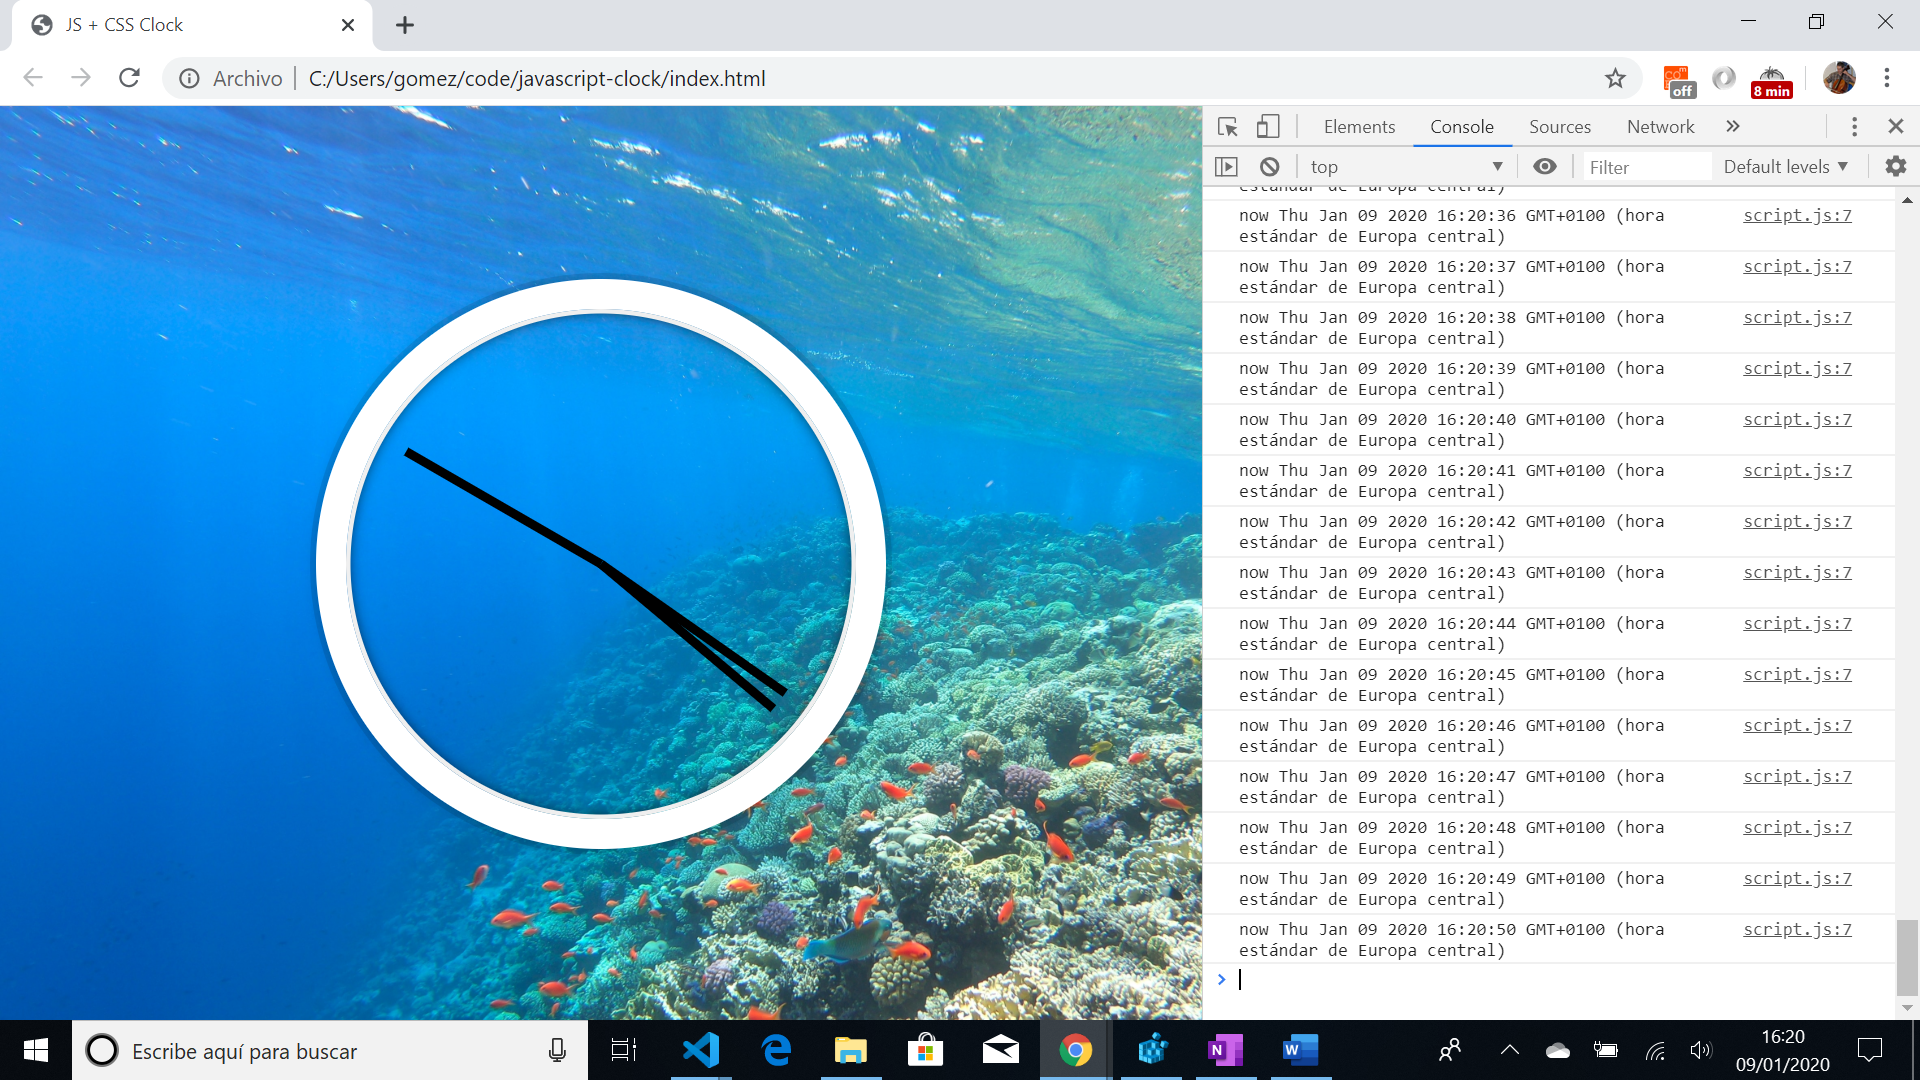
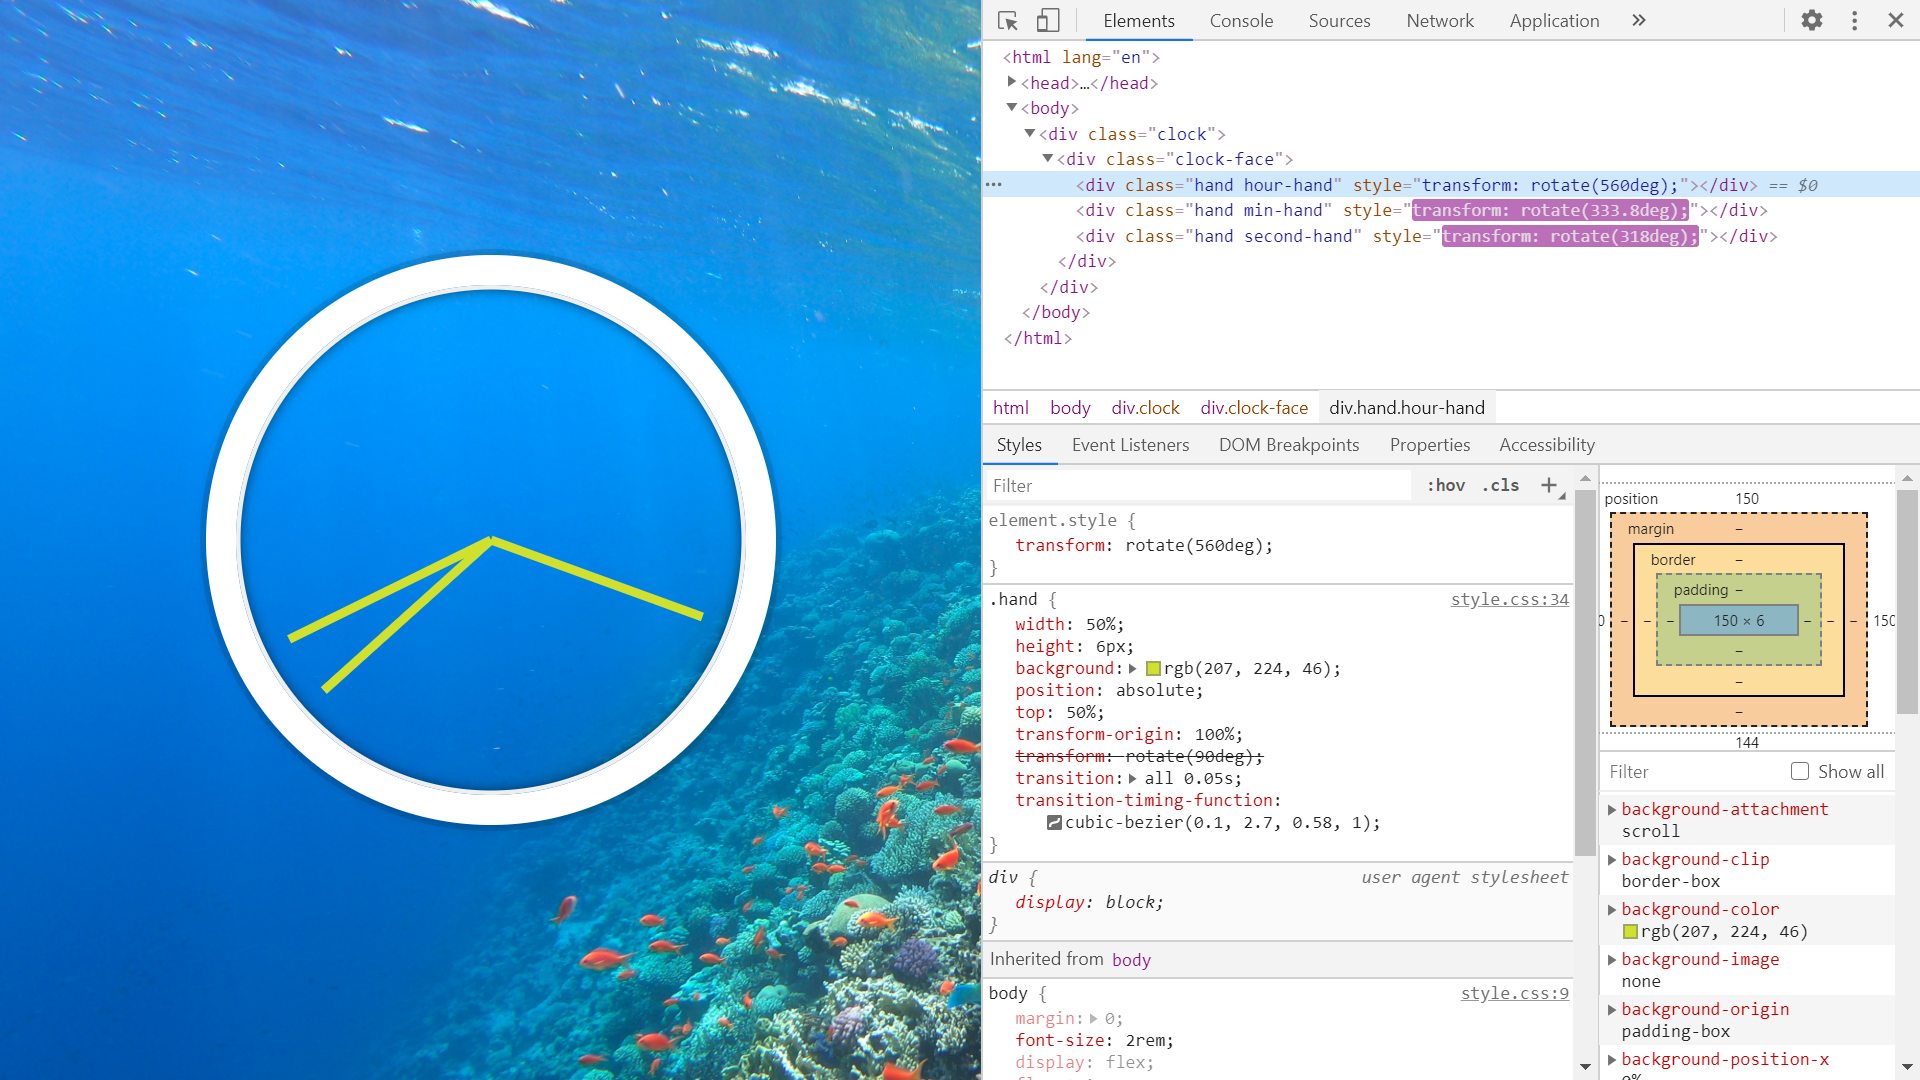
readme updated, minor code formatting, styling change

diff --git a/style.css b/style.css
@@ -1,47 +1,44 @@
 html {
-  /* background: #018DED url(https://images.freeimages.com/images/large-previews/5eb/more-photo-file-2-1169682.jpg); */
-  background: #018DED url(./background.jpg);
-  background-size: cover;
-  font-family: 'helvetica neue';
-  text-align: center;
-  font-size: 10px;
+	/* background: #018DED url(https://images.freeimages.com/images/large-previews/5eb/more-photo-file-2-1169682.jpg); */
+	background: #018ded url(./background.jpg);
+	background-size: cover;
+	font-family: 'helvetica neue';
+	text-align: center;
+	font-size: 10px;
 }
 body {
-  margin: 0;
-  font-size: 2rem;
-  display: flex;
-  flex: 1;
-  min-height: 100vh;
-  align-items: center;
+	margin: 0;
+	font-size: 2rem;
+	display: flex;
+	flex: 1;
+	min-height: 100vh;
+	align-items: center;
 }
 .clock {
-  width: 30rem;
-  height: 30rem;
-  border: 20px solid white;
-  border-radius: 50%;
-  margin: 50px auto;
-  position: relative;
-  padding: 2rem;
-  box-shadow:
-    0 0 0 4px rgba(0,0,0,0.1),
-    inset 0 0 0 3px #EFEFEF,
-    inset 0 0 10px black,
-    0 0 10px rgba(0,0,0,0.2);
+	width: 30rem;
+	height: 30rem;
+	border: 20px solid white;
+	border-radius: 50%;
+	margin: 50px auto;
+	position: relative;
+	padding: 2rem;
+	box-shadow: 0 0 0 4px rgba(0, 0, 0, 0.1), inset 0 0 0 3px #efefef,
+		inset 0 0 10px black, 0 0 10px rgba(0, 0, 0, 0.2);
 }
 .clock-face {
-  position: relative;
-  width: 100%;
-  height: 100%;
-  transform: translateY(-3px); /* account for the height of the clock hands */
+	position: relative;
+	width: 100%;
+	height: 100%;
+	transform: translateY(-3px); /* account for the height of the clock hands */
 }
 .hand {
-  width: 50%;
-  height: 6px;
-  background: rgb(33, 247, 5);
-  position: absolute;
-  top: 50%;
-  transform-origin: 100%;
-  transform: rotate(90deg);
-  transition: all 0.05s;
-  transition-timing-function: cubic-bezier(0.1, 2.7, 0.58, 1);
+	width: 50%;
+	height: 6px;
+	background: rgb(207, 224, 46);
+	position: absolute;
+	top: 50%;
+	transform-origin: 100%;
+	transform: rotate(90deg);
+	transition: all 0.05s;
+	transition-timing-function: cubic-bezier(0.1, 2.7, 0.58, 1);
 }

diff --git a/script.js b/script.js
@@ -3,20 +3,20 @@ const minsHand = document.querySelector('.min-hand');
 const hourHand = document.querySelector('.hour-hand');
 
 function setDate() {
-  const now = new Date();
-  // console.log('now', now);
-  
-  const seconds = now.getSeconds();
-  const secondsDegrees = ((seconds / 60) * 360) + 90;
-  secondHand.style.transform = `rotate(${secondsDegrees}deg)`;
-  
-  const mins = now.getMinutes();
-  const minsDegrees = ((mins / 60) * 360) + ((seconds/60)*6) + 90;
-  minsHand.style.transform = `rotate(${minsDegrees}deg)`;
-  
-  const hours = now.getHours();
-  const hoursDegrees = ((hours / 12) * 360) + ((mins/60)*30) + 90;
-  hourHand.style.transform = `rotate(${hoursDegrees}deg)`;
+	const now = new Date();
+	// console.log('now', now);
+
+	const seconds = now.getSeconds();
+	const secondsDegrees = (seconds / 60) * 360 + 90;
+	secondHand.style.transform = `rotate(${secondsDegrees}deg)`;
+
+	const mins = now.getMinutes();
+	const minsDegrees = (mins / 60) * 360 + (seconds / 60) * 6 + 90;
+	minsHand.style.transform = `rotate(${minsDegrees}deg)`;
+
+	const hours = now.getHours();
+	const hoursDegrees = (hours / 12) * 360 + (mins / 60) * 30 + 90;
+	hourHand.style.transform = `rotate(${hoursDegrees}deg)`;
 }
 //call every second:
 setInterval(setDate, 1000);

diff --git a/index.html b/index.html
@@ -6,7 +6,7 @@
     <meta name="viewport" content="width=device-width, initial-scale=1">
     <link rel="stylesheet" href="style.css">
     <script src="script.js" defer></script>
-  </head> 
+  </head>
   <body>
     <div class="clock">
       <div class="clock-face">
@@ -15,8 +15,5 @@
         <div class="hand second-hand"></div>
       </div>
     </div>
-
-    <div class="glitchButton" style="position:fixed;top:20px;right:20px;"></div>
-    <script src="https://button.glitch.me/button.js"></script>
   </body>
 </html>

diff --git a/README.md b/README.md
@@ -1,37 +1,40 @@
-# Javascript Clock
+# :zap: Javascript Clock
 
 Wes Bos Youtube Tutorial: [We build a CSS + JS Clock in Vanilla JS — #JavaScript30 2/30](https://www.youtube.com/watch?v=xu87YWbr4X0&list=PLu8EoSxDXHP6CGK4YVJhL_VWetA865GOH&index=2).
 
 *** Note: to open web links in a new window use: _ctrl+click on link_**
 
-## Table of contents
+## :page_facing_up: Table of contents
 
-* [General info](#general-info)
-* [Screenshots](#screenshots)
-* [Technologies](#technologies)
-* [Setup](#setup)
-* [Features](#features)
-* [Status](#status)
-* [Inspiration](#inspiration)
-* [Contact](#contact)
+* [:zap: Javascript Clock](#zap-javascript-clock)
+  * [:page_facing_up: Table of contents](#page_facing_up-table-of-contents)
+  * [:books: General info](#books-general-info)
+  * [:camera: Screenshots](#camera-screenshots)
+  * [:signal_strength: Technologies](#signal_strength-technologies)
+  * [:floppy_disk: Setup](#floppy_disk-setup)
+  * [:computer: Code Examples](#computer-code-examples)
+  * [:cool: Features](#cool-features)
+  * [:clipboard: Status & To-Do List](#clipboard-status--to-do-list)
+  * [:clap: Inspiration](#clap-inspiration)
+  * [:envelope: Contact](#envelope-contact)
 
-## General info
+## :books: General info
 
 * Tutorial Code to create a working clock using just HTML, CSS & javascript.
 
-## Screenshots
+## :camera: Screenshots
 
 ![Example screenshot](./img/clock.png).
 
-## Technologies
+## :signal_strength: Technologies
 
-* Ran in Google Chrome browser with: [Javascript engine V8 7.9.317.32 for Windows (x64)](https://v8.dev/).
+* Ran in Google Chrome browser with: [Javascript engine V8 for Windows (x64)](https://v8.dev/).
 
-## Setup
+## :floppy_disk: Setup
 
 * Open index.html in browser. If any code is changed the browser needs to be refreshed.
 
-## Code Examples
+## :computer: Code Examples
 
 * function to calculate position of clock hands using new Date().
 
@@ -39,35 +42,34 @@ Wes Bos Youtube Tutorial: [We build a CSS + JS Clock in Vanilla JS — #JavaScri
 function setDate() {
   const now = new Date();
   console.log('now', now);
-  
+
   const seconds = now.getSeconds();
   const secondsDegrees = ((seconds / 60) * 360) + 90;
   secondHand.style.transform = `rotate(${secondsDegrees}deg)`;
-  
+
   const mins = now.getMinutes();
   const minsDegrees = ((mins / 60) * 360) + ((seconds/60)*6) + 90;
   minsHand.style.transform = `rotate(${minsDegrees}deg)`;
-  
+
   const hours = now.getHours();
   const hoursDegrees = ((hours / 12) * 360) + ((mins/60)*30) + 90;
   hourHand.style.transform = `rotate(${hoursDegrees}deg)`;
 }
 ```
 
-## Features
+## :cool: Features
 
-*  Uses cubic-bezier css library for ease-in and ease-out of ticking clock hands.
+* Uses cubic-bezier css library for ease-in and ease-out of ticking clock hands.
 
-## Status & To-Do List
+## :clipboard: Status & To-Do List
 
-* Status: Working.
-
+* Status: Working
 * To-Do: Nothing
 
-## Inspiration
+## :clap: Inspiration
 
 * [We build a CSS + JS Clock in Vanilla JS — #JavaScript30 2/30](https://www.youtube.com/watch?v=xu87YWbr4X0&list=PLu8EoSxDXHP6CGK4YVJhL_VWetA865GOH&index=2).
 
-## Contact
+## :envelope: Contact
 
-Repo created by [ABateman](https://www.andrewbateman.org) - feel free to contact me!
+* Repo created by [ABateman](https://www.andrewbateman.org) - you are welcome to [send me a message](https://andrewbateman.org/contact)
